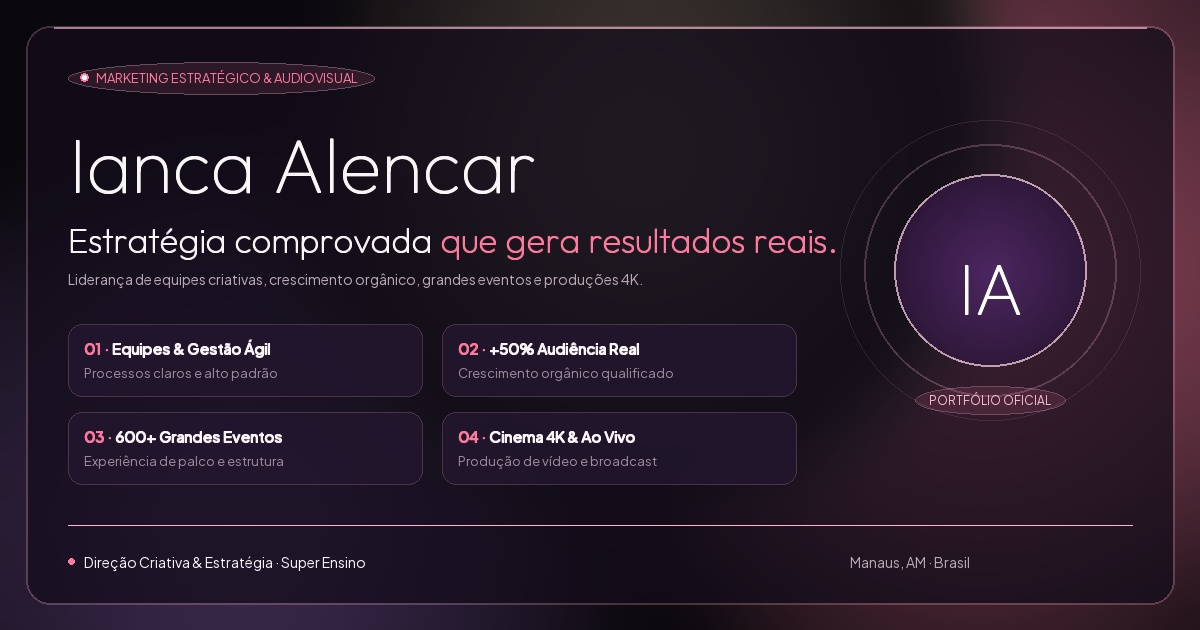
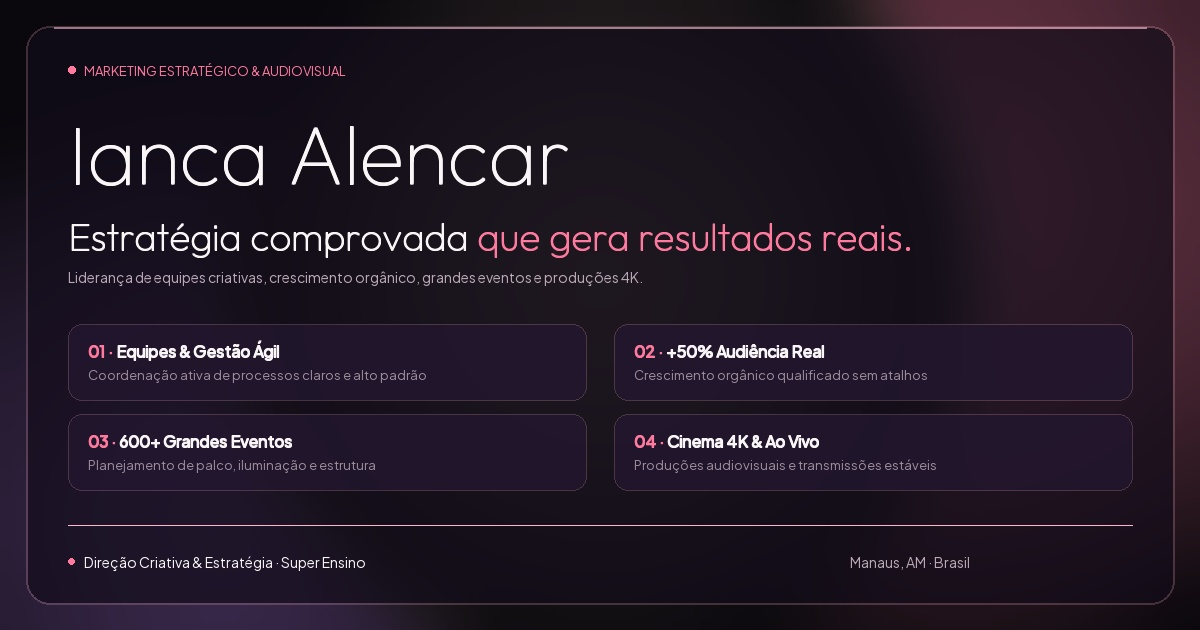
style: clean OG image removing IA orb and badge border

diff --git a/create_og_image.py b/create_og_image.py
@@ -7,7 +7,7 @@ W, H = 1200, 630
 # 1. Base Dark Canvas
 img = Image.new('RGB', (W, H), '#0A080D')
 
-# 2. Glowing Radial Lights (Luxury Obsidian & Rose Quartz / Champagne)
+# 2. Glowing Radial Lights (Luxury Silk Obsidian & Rose Quartz / Champagne)
 glow_layer = Image.new('RGBA', (W, H), (0, 0, 0, 0))
 glow_draw = ImageDraw.Draw(glow_layer)
 
@@ -18,11 +18,12 @@ def draw_radial_gradient(d, cx, cy, radius, r, g, b, alpha_max):
         if alpha > 0:
             d.ellipse([cx - i, cy - i, cx + i, cy + i], fill=(r, g, b, alpha))
 
-# Large Rose Quartz ambient light on right orb
-draw_radial_gradient(glow_draw, 980, 270, 460, 255, 122, 158, 150)
-# Warm Champagne / Amethyst on bottom-left
-draw_radial_gradient(glow_draw, 240, 520, 420, 192, 132, 252, 70)
-draw_radial_gradient(glow_draw, 640, 150, 360, 247, 215, 181, 60)
+# Large Rose Quartz ambient light on top right
+draw_radial_gradient(glow_draw, 960, 200, 480, 255, 122, 158, 110)
+# Warm Champagne / Orchid depth on bottom-left
+draw_radial_gradient(glow_draw, 220, 520, 440, 192, 132, 252, 70)
+# Soft center glow
+draw_radial_gradient(glow_draw, 600, 280, 380, 247, 215, 181, 50)
 
 glow_layer = glow_layer.filter(ImageFilter.GaussianBlur(32))
 img.paste(Image.alpha_composite(Image.new('RGBA', (W, H), (10, 8, 13, 255)), glow_layer).convert('RGB'), (0, 0))
@@ -34,9 +35,9 @@ card_overlay = Image.new('RGBA', (W, H), (0, 0, 0, 0))
 card_draw = ImageDraw.Draw(card_overlay)
 
 # Dark glass panel fill
-card_draw.rounded_rectangle(card_rect, radius=24, fill=(18, 12, 26, 180), outline=(255, 182, 205, 60), width=2)
+card_draw.rounded_rectangle(card_rect, radius=24, fill=(18, 12, 26, 175), outline=(255, 182, 205, 55), width=2)
 # Top satin light reflection
-card_draw.line([(margin + 28, margin + 1), (W - margin - 28, margin + 1)], fill=(255, 195, 215, 160), width=2)
+card_draw.line([(margin + 28, margin + 1), (W - margin - 28, margin + 1)], fill=(255, 195, 215, 150), width=2)
 
 img_rgba = Image.alpha_composite(img.convert('RGBA'), card_overlay)
 img = img_rgba.convert('RGB')
@@ -46,14 +47,12 @@ font_outfit = 'assets/fonts/Outfit.ttf'
 font_sans = 'assets/fonts/PlusJakartaSans.ttf'
 
 font_badge = ImageFont.truetype(font_sans, 13)
-font_title = ImageFont.truetype(font_outfit, 76)
-font_h1 = ImageFont.truetype(font_outfit, 34)
-font_h2 = ImageFont.truetype(font_outfit, 34)
-font_pill_title = ImageFont.truetype(font_sans, 15)
+font_title = ImageFont.truetype(font_outfit, 82)
+font_h1 = ImageFont.truetype(font_outfit, 38)
+font_h2 = ImageFont.truetype(font_outfit, 38)
+font_pill_title = ImageFont.truetype(font_sans, 16)
 font_pill_desc = ImageFont.truetype(font_sans, 13)
 font_footer = ImageFont.truetype(font_sans, 14)
-font_orb_ia = ImageFont.truetype(font_outfit, 72)
-font_orb_sub = ImageFont.truetype(font_sans, 12)
 
 # Helper function to draw bold text via subpixel offsets
 def draw_text_bold(target_draw, pos, text, font, fill, weight=2):
@@ -64,32 +63,21 @@ def draw_text_bold(target_draw, pos, text, font, fill, weight=2):
 
 draw = ImageDraw.Draw(img)
 
-# 5. Top Eyebrow Badge: "MARKETING ESTRATÉGICO & AUDIOVISUAL"
+# 5. Top Eyebrow (Clean text without border/circle pill)
 bx, by = 68, 62
 badge_text = "MARKETING ESTRATÉGICO & AUDIOVISUAL"
-badge_bbox = font_badge.getbbox(badge_text)
-bw = badge_bbox[2] - badge_bbox[0] + 44
-bh = 32
 
-badge_layer = Image.new('RGBA', (W, H), (0, 0, 0, 0))
-bdraw = ImageDraw.Draw(badge_layer)
-bdraw.rounded_rectangle([bx, by, bx + bw, by + bh], radius=999, fill=(255, 122, 158, 30), outline=(255, 182, 205, 95), width=1)
-# Glowing dot inside badge
-bdraw.ellipse([bx + 12, by + 11, bx + 20, by + 19], fill=(255, 122, 158, 255))
-bdraw.ellipse([bx + 14, by + 13, bx + 18, by + 17], fill=(255, 255, 255, 255))
+# Draw subtle dot indicator
+draw.ellipse([bx, by + 4, bx + 7, by + 11], fill='#FF7A9E')
+draw_text_bold(draw, (bx + 16, by), badge_text, font=font_badge, fill='#FF7A9E', weight=1)
 
-img_rgba = Image.alpha_composite(img.convert('RGBA'), badge_layer)
-img = img_rgba.convert('RGB')
-draw = ImageDraw.Draw(img)
-draw_text_bold(draw, (bx + 28, by + 7), badge_text, font=font_badge, fill='#FF7A9E', weight=1)
-
-# 6. Main Name Title: "Ianca Alencar" (Bolded & Glowing)
-draw_text_bold(draw, (68, 116), "Ianca Alencar", font=font_title, fill='#FAF6F8', weight=2)
+# 6. Main Name Title: "Ianca Alencar" (Large & Luxurious)
+draw_text_bold(draw, (68, 102), "Ianca Alencar", font=font_title, fill='#FAF6F8', weight=2)
 
 # 7. Impact Headline: "Estratégia comprovada que gera resultados reais."
 line1 = "Estratégia comprovada "
 line2 = "que gera resultados reais."
-ly = 218
+ly = 212
 draw_text_bold(draw, (68, ly), line1, font=font_h1, fill='#FAF6F8', weight=2)
 bbox1 = font_h1.getbbox(line1)
 w1 = bbox1[2] - bbox1[0]
@@ -97,22 +85,27 @@ draw_text_bold(draw, (68 + w1, ly), line2, font=font_h2, fill='#FF7A9E', weight=
 
 # Subtitle explanation
 subtitle = "Liderança de equipes criativas, crescimento orgânico, grandes eventos e produções 4K."
-draw.text((68, 270), subtitle, font=font_footer, fill='#BCAAB8')
+draw.text((68, 268), subtitle, font=font_footer, fill='#BCAAB8')
 
-# 8. 4 Bento Grid Cards (2x2 Grid with balanced spacing)
+# 8. 4 Wide Bento Cards (2x2 Grid spanning the full width)
+# Total content width = 1200 - 68*2 = 1064px. Two cards of 518px with 28px gap.
+cw, ch = 518, 76
+gap_x = 28
+row1_y = 324
+row2_y = 414
+
 bento_cards = [
-    ("01", "Equipes & Gestão Ágil", "Processos claros e alto padrão", 68, 324),
-    ("02", "+50% Audiência Real", "Crescimento orgânico qualificado", 442, 324),
-    ("03", "600+ Grandes Eventos", "Experiência de palco e estrutura", 68, 412),
-    ("04", "Cinema 4K & Ao Vivo", "Produção de vídeo e broadcast", 442, 412),
+    ("01", "Equipes & Gestão Ágil", "Coordenação ativa de processos claros e alto padrão", 68, row1_y),
+    ("02", "+50% Audiência Real", "Crescimento orgânico qualificado sem atalhos", 68 + cw + gap_x, row1_y),
+    ("03", "600+ Grandes Eventos", "Planejamento de palco, iluminação e estrutura", 68, row2_y),
+    ("04", "Cinema 4K & Ao Vivo", "Produções audiovisuais e transmissões estáveis", 68 + cw + gap_x, row2_y),
 ]
 
 bento_layer = Image.new('RGBA', (W, H), (0, 0, 0, 0))
 bdraw = ImageDraw.Draw(bento_layer)
 
 for num, title, desc, px, py in bento_cards:
-    pw, ph = 354, 72
-    bdraw.rounded_rectangle([px, py, px + pw, py + ph], radius=14, fill=(34, 22, 46, 210), outline=(255, 182, 205, 55), width=1)
+    bdraw.rounded_rectangle([px, py, px + cw, py + ch], radius=14, fill=(34, 22, 46, 210), outline=(255, 182, 205, 55), width=1)
 
 img_rgba = Image.alpha_composite(img.convert('RGBA'), bento_layer)
 img = img_rgba.convert('RGB')
@@ -123,66 +116,19 @@ for num, title, desc, px, py in bento_cards:
     nbox = font_pill_title.getbbox(num_str)
     nw = nbox[2] - nbox[0]
     
-    draw_text_bold(draw, (px + 16, py + 14), num_str, font=font_pill_title, fill='#FF7A9E', weight=2)
-    draw_text_bold(draw, (px + 16 + nw, py + 14), title, font=font_pill_title, fill='#FAF6F8', weight=2)
-    draw.text((px + 16, py + 40), desc, font=font_pill_desc, fill='#9E8D9D')
+    draw_text_bold(draw, (px + 20, py + 16), num_str, font=font_pill_title, fill='#FF7A9E', weight=2)
+    draw_text_bold(draw, (px + 20 + nw, py + 16), title, font=font_pill_title, fill='#FAF6F8', weight=2)
+    draw.text((px + 20, py + 42), desc, font=font_pill_desc, fill='#9E8D9D')
 
-# 9. Right Stage: 3D Frosted Glass Orb with Monogram "IA"
-orb_layer = Image.new('RGBA', (W, H), (0, 0, 0, 0))
-odraw = ImageDraw.Draw(orb_layer)
-
-ox, oy = 990, 270
-# Concentric light rings
-odraw.ellipse([ox - 150, oy - 150, ox + 150, oy + 150], outline=(255, 182, 205, 30), width=1)
-odraw.ellipse([ox - 126, oy - 126, ox + 126, oy + 126], outline=(255, 182, 205, 60), width=2)
-
-# Frosted Glass Sphere
-r_orb = 96
-# Subtle gradient inside orb
-for r_step in range(r_orb, 0, -2):
-    ratio = r_step / r_orb
-    r_val = int(48 + 30 * (1 - ratio))
-    g_val = int(24 + 15 * (1 - ratio))
-    b_val = int(60 + 40 * (1 - ratio))
-    odraw.ellipse([ox - r_step, oy - r_step, ox + r_step, oy + r_step], fill=(r_val, g_val, b_val, 240))
-
-odraw.ellipse([ox - r_orb, oy - r_orb, ox + r_orb, oy + r_orb], outline=(255, 215, 230, 180), width=2)
-
-img_rgba = Image.alpha_composite(img.convert('RGBA'), orb_layer)
-img = img_rgba.convert('RGB')
-draw = ImageDraw.Draw(img)
-
-# Monogram "IA" in center of Orb
-ia_text = "IA"
-ibox = font_orb_ia.getbbox(ia_text)
-iw = ibox[2] - ibox[0]
-ih = ibox[3] - ibox[1]
-draw_text_bold(draw, (ox - iw//2, oy - ih//2 - 4), ia_text, font=font_orb_ia, fill='#FFFFFF', weight=2)
-
-# Satin pill below Orb
-pill_orb_text = "PORTFÓLIO OFICIAL"
-pobox = font_orb_sub.getbbox(pill_orb_text)
-pow = pobox[2] - pobox[0] + 28
-poh = 28
-pox, poy = ox - pow//2, oy + 116
-
-orb_pill_layer = Image.new('RGBA', (W, H), (0, 0, 0, 0))
-opdraw = ImageDraw.Draw(orb_pill_layer)
-opdraw.rounded_rectangle([pox, poy, pox + pow, poy + poh], radius=999, fill=(255, 122, 158, 30), outline=(255, 182, 205, 80), width=1)
-img_rgba = Image.alpha_composite(img.convert('RGBA'), orb_pill_layer)
-img = img_rgba.convert('RGB')
-draw = ImageDraw.Draw(img)
-draw_text_bold(draw, (pox + 14, poy + 6), pill_orb_text, font=font_orb_sub, fill='#FBBFD0', weight=1)
-
-# 10. Bottom Footer Divider & Labels
+# 9. Bottom Footer Divider & Labels
 div_y = 525
 draw.line([(68, div_y), (W - 68, div_y)], fill=(255, 182, 205, 40), width=1)
 
-# Left footer with star
+# Left footer
 draw.ellipse([68, 558, 74, 564], fill='#FF7A9E')
 draw.text((84, 553), "Direção Criativa & Estratégia · Super Ensino", font=font_footer, fill='#FAF6F8')
 draw.text((W - 350, 553), "Manaus, AM · Brasil", font=font_footer, fill='#BCAAB8')
 
-# 11. Save Optimized JPEG
+# 10. Save Optimized JPEG
 img.save('assets/og-image.jpg', 'JPEG', quality=95, optimize=True)
-print("Successfully generated finalized assets/og-image.jpg (1200x630)")
+print("Successfully generated clean, ultra-luxury assets/og-image.jpg (1200x630)")
